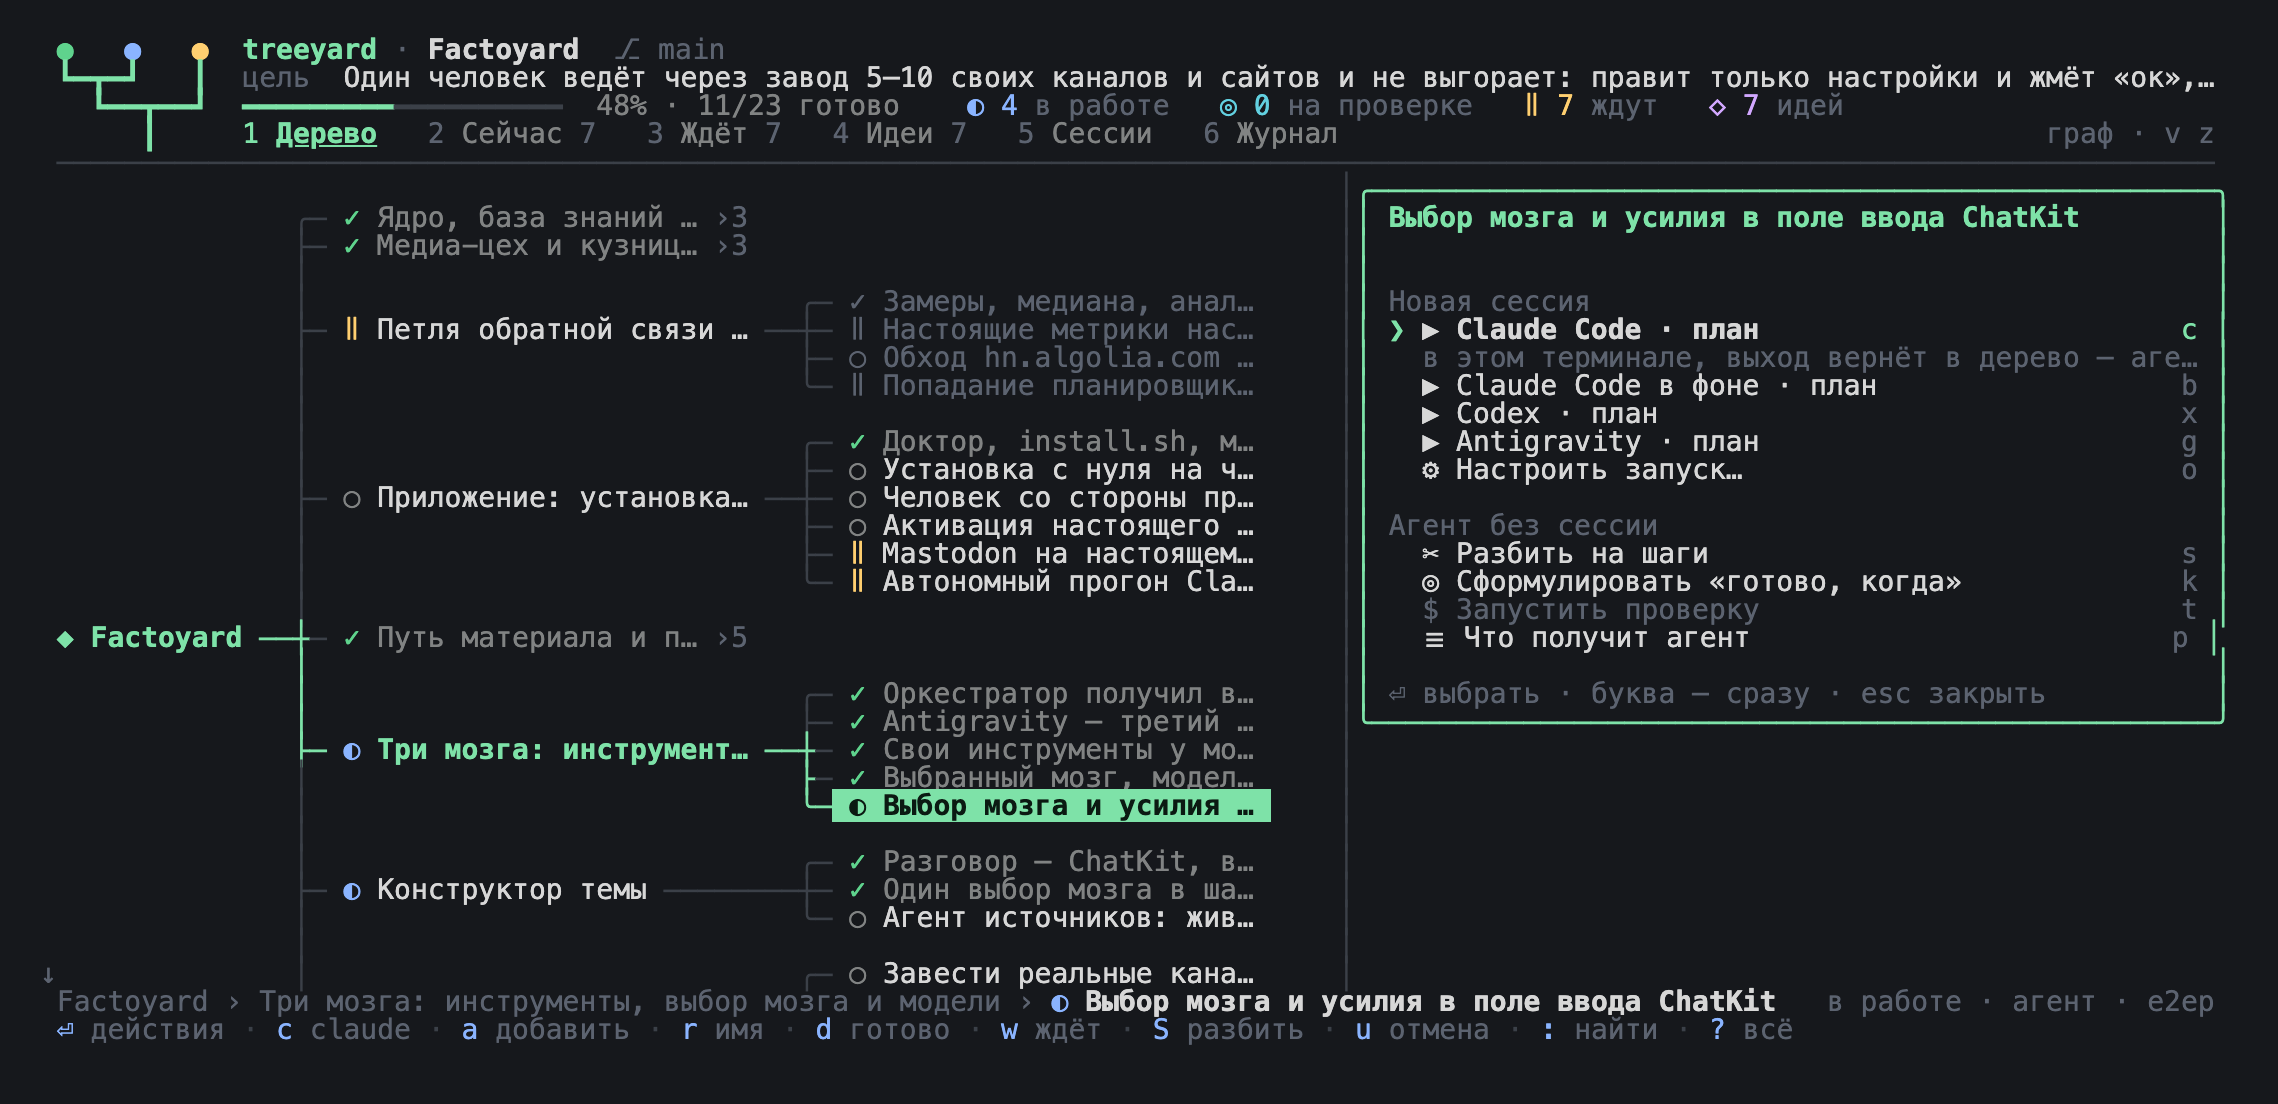
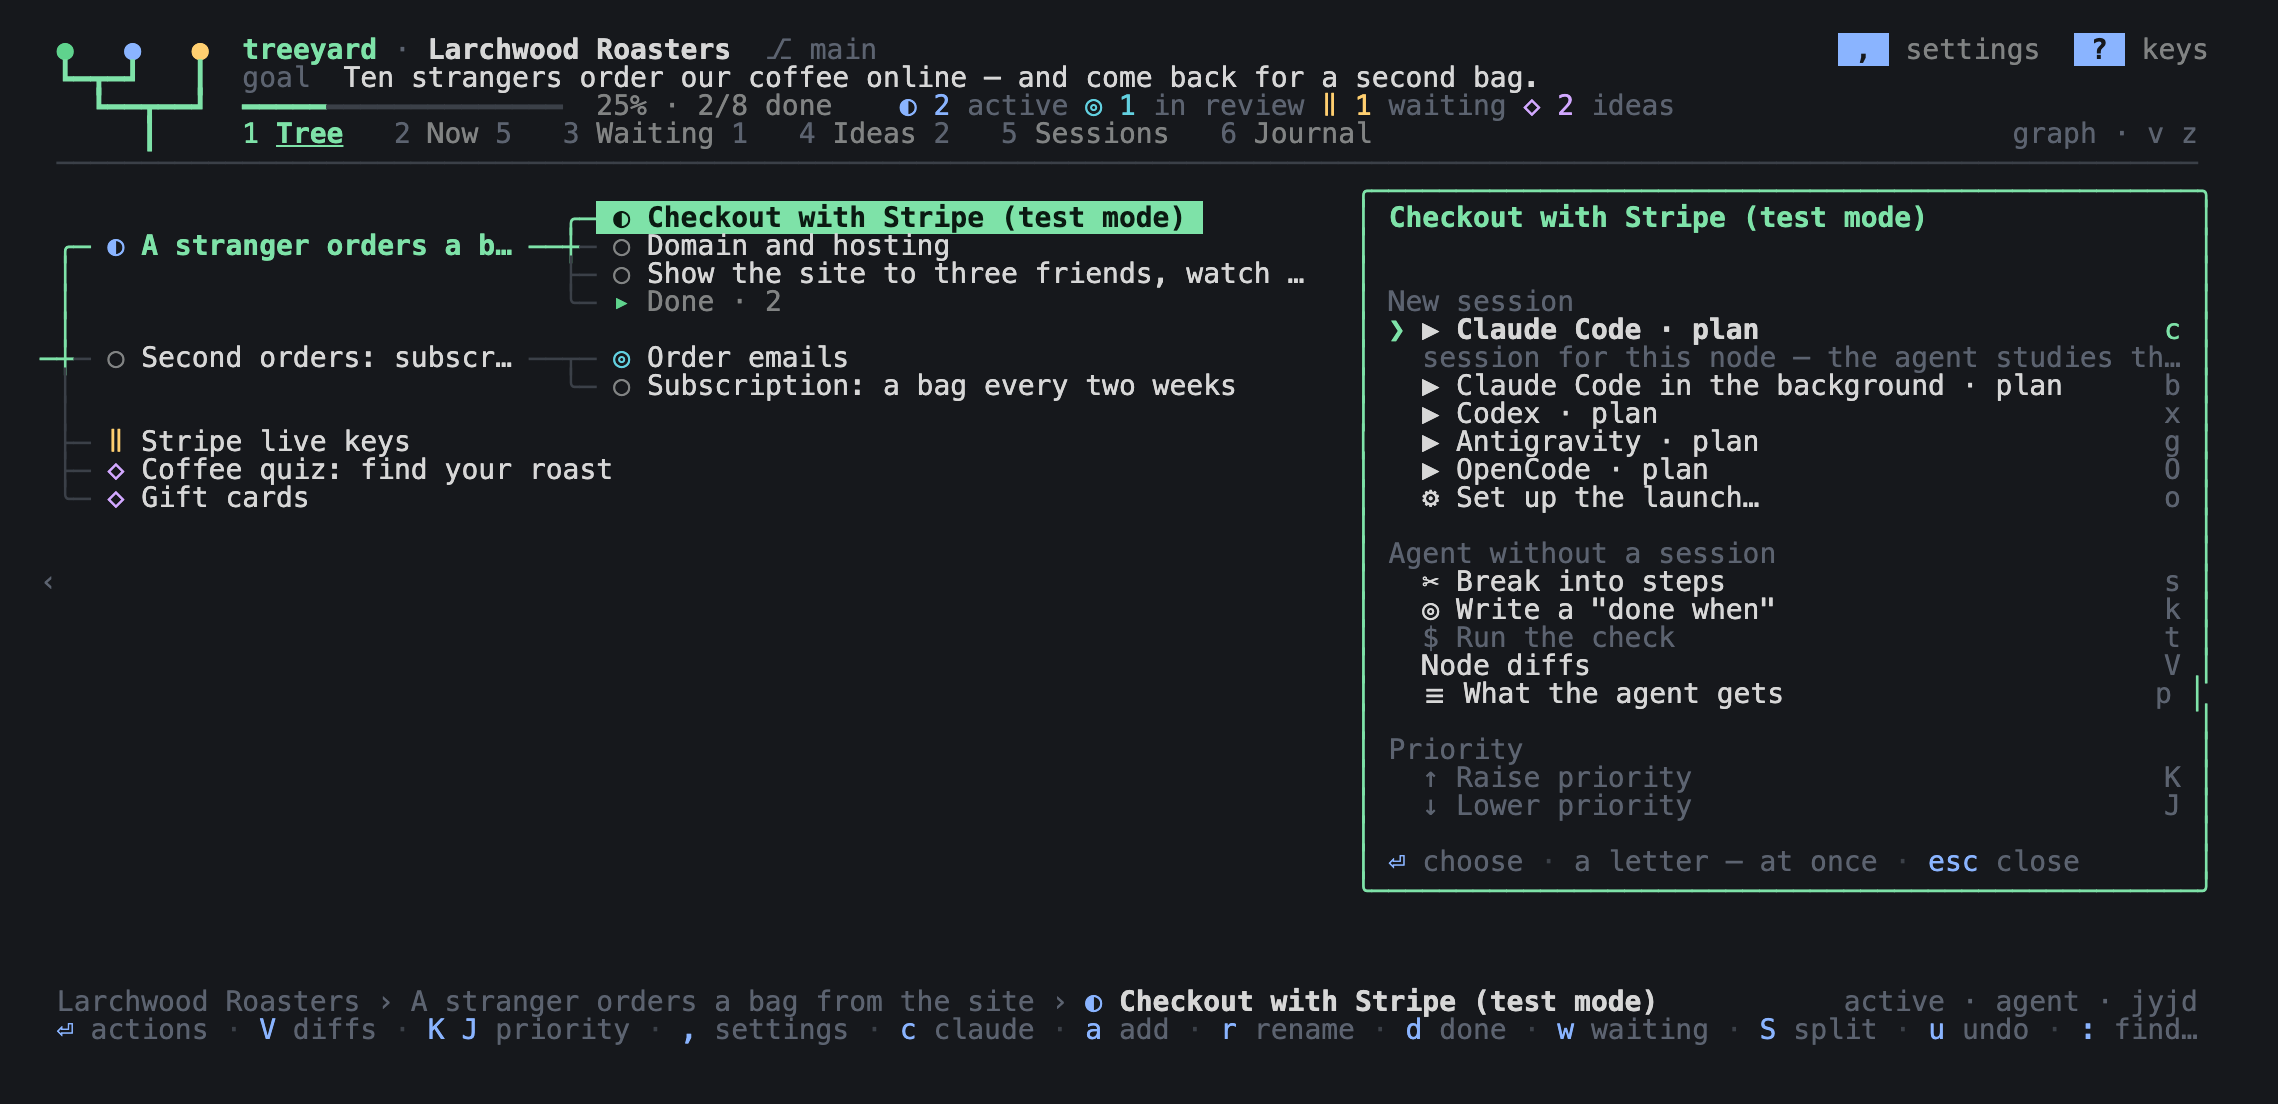
chore: npm run screenshots retakes the README pictures
The README's pictures came from a real working tree, in Russian, and went
stale: the menu had no OpenCode. Now they come from the staged coffee
roastery of the promo video, planted into a temporary folder by treeyard
itself and shot in English and in Russian (docs/*.ru.png).
scripts/screenshot.ts exports framePng() for it.

diff --git a/scripts/readme-screenshots.ts b/scripts/readme-screenshots.ts
@@ -1,0 +1,138 @@
+/**
+ * The README's pictures, taken again: the staged coffee roastery from the
+ * promo video (video/demo/coffee), planted into a temporary folder by
+ * treeyard itself, moved along a little and shot in English and in Russian.
+ * A new key or label in the TUI — run it, and the README shows it.
+ *
+ *   npm run screenshots   → docs/screenshot{,-menu}{,.ru}.png
+ *
+ * The folder and its TREEYARD_HOME are temporary: nothing touches
+ * ~/.treeyard, a real tree or tmux.
+ */
+import { execFileSync } from 'node:child_process';
+import { mkdirSync, mkdtempSync, readFileSync, realpathSync, rmSync, writeFileSync } from 'node:fs';
+import { tmpdir } from 'node:os';
+import { join, resolve } from 'node:path';
+
+// Before ink and its colours load: the README shows a truecolor terminal.
+process.env.FORCE_COLOR = '3';
+
+const repo = resolve(import.meta.dirname, '..');
+const tsx = join(repo, 'node_modules/.bin/tsx');
+// The graph needs fewer rows than the menu; below 26 the TUI hides the goal line.
+const COLUMNS = 130;
+
+type Lang = 'en' | 'ru';
+const TREES: Record<Lang, string> = {
+  en: join(repo, 'video/demo/coffee/tree.json'),
+  ru: join(repo, 'video/demo/coffee/tree.ru.json'),
+};
+const SUFFIX: Record<Lang, string> = { en: '', ru: '.ru' };
+
+interface PlannedNode {
+  title: string;
+  children: PlannedNode[];
+}
+
+/** Where the work stands in the picture: positions in tree.json, so both languages move alike. */
+const MOVES: [number[], string][] = [
+  [[0], 'active'],
+  [[0, 0], 'done'],
+  [[0, 1], 'done'],
+  [[0, 2], 'active'],
+  [[1, 1], 'review'],
+];
+/** The node the pictures select, «Checkout with Stripe», and the branches open around it. */
+const SELECTED = [0, 2];
+const EXPANDED = [[0], [1]];
+
+const { snapshot } = await import('../src/tui/snapshot.js');
+const { framePng } = await import('./screenshot.js');
+
+const root = mkdtempSync(join(realpathSync(tmpdir()), 'treeyard-readme-'));
+try {
+  for (const lang of ['en', 'ru'] as const) await shoot(lang);
+} finally {
+  rmSync(root, { recursive: true, force: true });
+}
+
+async function shoot(lang: Lang): Promise<void> {
+  const home = join(root, lang, 'home');
+  const dir = join(root, lang, 'larchwood-roasters');
+  mkdirSync(home, { recursive: true });
+  mkdirSync(dir, { recursive: true });
+  const settings = { lang, theme: 'dark', confirm: true, animation: false, marquee: false } as const;
+  writeFileSync(join(home, 'settings.json'), `${JSON.stringify(settings, null, 2)}\n`);
+
+  const env: NodeJS.ProcessEnv = {};
+  for (const [key, value] of Object.entries(process.env)) {
+    if (!/^(TREEYARD_|BRAINYARD_|TMUX|CLAUDE)/.test(key)) env[key] = value;
+  }
+  // A person at the keyboard: only a person may mark a node done.
+  Object.assign(env, { TREEYARD_HOME: home, TREEYARD_AS: 'you' });
+  const git = (...args: string[]) => execFileSync('git', args, { cwd: dir, env, stdio: 'pipe' });
+  const treeyard = (...args: string[]) =>
+    execFileSync(tsx, ['--tsconfig', join(repo, 'tsconfig.json'), join(repo, 'src/cli/main.ts'), ...args], {
+      cwd: dir,
+      env,
+      encoding: 'utf8',
+      stdio: ['ignore', 'pipe', 'pipe'],
+    });
+
+  git('init', '-q', '-b', 'main');
+  git('config', 'user.name', 'Larchwood Dev');
+  git('config', 'user.email', 'dev@larchwood.example');
+  git('config', 'commit.gpgsign', 'false');
+  git('commit', '-q', '--allow-empty', '-m', 'First commit');
+  treeyard('import', '--from-json', TREES[lang]);
+  hideGithubOffer(dir);
+
+  const planned = JSON.parse(readFileSync(TREES[lang], 'utf8')) as { nodes: PlannedNode[] };
+  const ids = idsByTitle(JSON.parse(treeyard('show', '--json')).nodes);
+  const idAt = (path: number[]) => {
+    let nodes = planned.nodes;
+    let node: PlannedNode | undefined;
+    for (const index of path) {
+      node = nodes[index];
+      nodes = node?.children ?? [];
+    }
+    const id = node && ids.get(node.title);
+    if (!id) throw new Error(`no node at ${path.join('.')} in ${TREES[lang]}`);
+    return id;
+  };
+  for (const [path, status] of MOVES) treeyard('set', idAt(path), `status=${status}`);
+  git('add', '-A');
+  git('commit', '-q', '-m', 'Plant the goal tree');
+
+  process.env.TREEYARD_HOME = home;
+  const ui = { selected: idAt(SELECTED), expanded: EXPANDED.map(idAt) };
+  const take = async (name: string, rows: number, keys: string[] = []) => {
+    const frame = await snapshot(dir, { columns: COLUMNS, rows, ui, keys, settings, settle: 200 });
+    console.log(framePng(frame, join(repo, 'docs', `${name}${SUFFIX[lang]}.png`), COLUMNS, rows));
+  };
+  await take('screenshot', 26);
+  await take('screenshot-menu', 36, ['\r']);
+}
+
+interface ShownNode {
+  id: string;
+  title: string;
+  children: ShownNode[];
+}
+
+function idsByTitle(nodes: ShownNode[], ids = new Map<string, string>()): Map<string, string> {
+  for (const node of nodes) {
+    ids.set(node.title, node.id);
+    idsByTitle(node.children, ids);
+  }
+  return ids;
+}
+
+/** What `,` → «GitHub node» → hide writes: the offer node is noise in a staged tree. */
+function hideGithubOffer(dir: string): void {
+  const path = join(dir, '.tree', 'tree.md');
+  const text = readFileSync(path, 'utf8');
+  const end = text.indexOf('\n---', 4);
+  if (!text.startsWith('---\n') || end < 0) throw new Error(`no front matter in ${path}`);
+  writeFileSync(path, `${text.slice(0, end)}\ngithub: off${text.slice(end)}`);
+}

diff --git a/scripts/screenshot.ts b/scripts/screenshot.ts
@@ -5,39 +5,48 @@
  * 256 colours; FORCE_COLOR=3 shows a truecolor terminal.
  *
  *   FORCE_COLOR=2 npx tsx scripts/screenshot.ts <project dir> <out.png> [cols]x[rows] [keys…]
+ *
+ * `framePng()` is the same picture for a frame taken elsewhere
+ * (scripts/readme-screenshots.ts).
  */
 import { spawnSync } from 'node:child_process';
-import { mkdtempSync, writeFileSync } from 'node:fs';
+import { mkdtempSync, readFileSync, rmSync, writeFileSync } from 'node:fs';
 import { tmpdir } from 'node:os';
 import { join, resolve } from 'node:path';
+import { pathToFileURL } from 'node:url';
 
-process.env.FORCE_COLOR ??= '2';
-
-const [dirArg, outArg, sizeArg = '130x38', ...keyArgs] = process.argv.slice(2);
-if (!dirArg || !outArg) {
-  console.error('usage: screenshot.ts <project dir> <out.png> [cols]x[rows] [keys…]');
-  process.exit(2);
+/** `<enter>`, `<down>`… as the bytes a terminal sends. */
+export function keysOf(names: string[]): string[] {
+  return names.map((key) =>
+    key
+      .replace(/<enter>/g, '\r')
+      .replace(/<esc>/g, '\u001b')
+      .replace(/<down>/g, '\u001b[B')
+      .replace(/<up>/g, '\u001b[A')
+      .replace(/<right>/g, '\u001b[C')
+      .replace(/<left>/g, '\u001b[D')
+      .replace(/<pgdn>/g, '\u001b[6~')
+      .replace(/<pgup>/g, '\u001b[5~')
+      .replace(/<tab>/g, '\t'),
+  );
 }
-const [columns, rows] = sizeArg.split('x').map(Number) as [number, number];
-const keys = keyArgs.map((key) =>
-  key
-    .replace(/<enter>/g, '\r')
-    .replace(/<esc>/g, '\u001b')
-    .replace(/<down>/g, '\u001b[B')
-    .replace(/<up>/g, '\u001b[A')
-    .replace(/<right>/g, '\u001b[C')
-    .replace(/<left>/g, '\u001b[D')
-    .replace(/<pgdn>/g, '\u001b[6~')
-    .replace(/<pgup>/g, '\u001b[5~')
-    .replace(/<tab>/g, '\t'),
-);
 
-let frame: string;
-if (dirArg.endsWith('.ans')) {
-  frame = (await import('node:fs')).readFileSync(dirArg, 'utf8');
-} else {
-  const { snapshot } = await import('../src/tui/snapshot.js');
-  frame = await snapshot(resolve(dirArg), { columns, rows, keys, settle: 200 });
+async function main(): Promise<void> {
+  process.env.FORCE_COLOR ??= '2';
+  const [dirArg, outArg, sizeArg = '130x38', ...keyArgs] = process.argv.slice(2);
+  if (!dirArg || !outArg) {
+    console.error('usage: screenshot.ts <project dir> <out.png> [cols]x[rows] [keys…]');
+    process.exit(2);
+  }
+  const [columns, rows] = sizeArg.split('x').map(Number) as [number, number];
+  let frame: string;
+  if (dirArg.endsWith('.ans')) {
+    frame = readFileSync(dirArg, 'utf8');
+  } else {
+    const { snapshot } = await import('../src/tui/snapshot.js');
+    frame = await snapshot(resolve(dirArg), { columns, rows, keys: keysOf(keyArgs), settle: 200 });
+  }
+  console.log(framePng(frame, outArg, columns, rows));
 }
 
 // ── ANSI → HTML ─────────────────────────────────────────────────────────────
@@ -154,32 +163,34 @@ function toHtml(text: string): string {
   return html;
 }
 
-const page = `<!doctype html><meta charset="utf-8"><style>
+/** The frame as a PNG at `out` (headless Chrome, twice the pixels); returns its full path. */
+export function framePng(frame: string, out: string, columns: number, rows: number): string {
+  const page = `<!doctype html><meta charset="utf-8"><style>
 html,body{margin:0;background:${BG}}
 pre{margin:0;padding:18px 20px;font:14px/1.0 'SF Mono','Menlo',monospace;color:${FG};white-space:pre;font-variant-ligatures:none}
 </style><pre>${toHtml(frame)}</pre>`;
-
-const dir = mkdtempSync(join(tmpdir(), 'treeyard-shot-'));
-const htmlPath = join(dir, 'frame.html');
-writeFileSync(htmlPath, page);
-const width = Math.ceil(columns * 8.45 + 40);
-const height = Math.ceil(rows * 14.2 + 40);
-const chrome = '/Applications/Google Chrome.app/Contents/MacOS/Google Chrome';
-const got = spawnSync(
-  chrome,
-  [
-    '--headless=new',
-    '--disable-gpu',
-    '--hide-scrollbars',
-    '--force-device-scale-factor=2',
-    `--window-size=${width},${height}`,
-    `--screenshot=${resolve(outArg)}`,
-    `file://${htmlPath}`,
-  ],
-  { encoding: 'utf8' },
-);
-if (got.status !== 0) {
-  console.error(got.stderr);
-  process.exit(1);
+  const dir = mkdtempSync(join(tmpdir(), 'treeyard-shot-'));
+  const htmlPath = join(dir, 'frame.html');
+  writeFileSync(htmlPath, page);
+  const width = Math.ceil(columns * 8.45 + 40);
+  const height = Math.ceil(rows * 14.2 + 40);
+  const chrome = '/Applications/Google Chrome.app/Contents/MacOS/Google Chrome';
+  const got = spawnSync(
+    chrome,
+    [
+      '--headless=new',
+      '--disable-gpu',
+      '--hide-scrollbars',
+      '--force-device-scale-factor=2',
+      `--window-size=${width},${height}`,
+      `--screenshot=${resolve(out)}`,
+      `file://${htmlPath}`,
+    ],
+    { encoding: 'utf8' },
+  );
+  rmSync(dir, { recursive: true, force: true });
+  if (got.status !== 0) throw new Error(`Chrome could not take the picture: ${got.stderr}`);
+  return resolve(out);
 }
-console.log(resolve(outArg));
+
+if (process.argv[1] && pathToFileURL(resolve(process.argv[1])).href === import.meta.url) await main();
